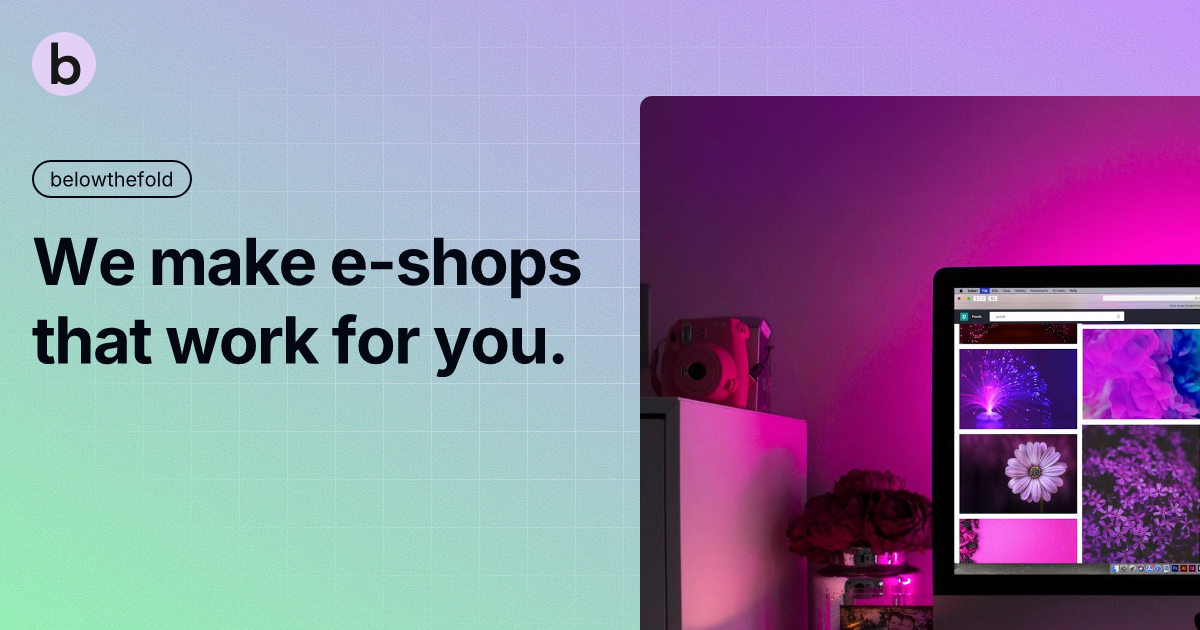
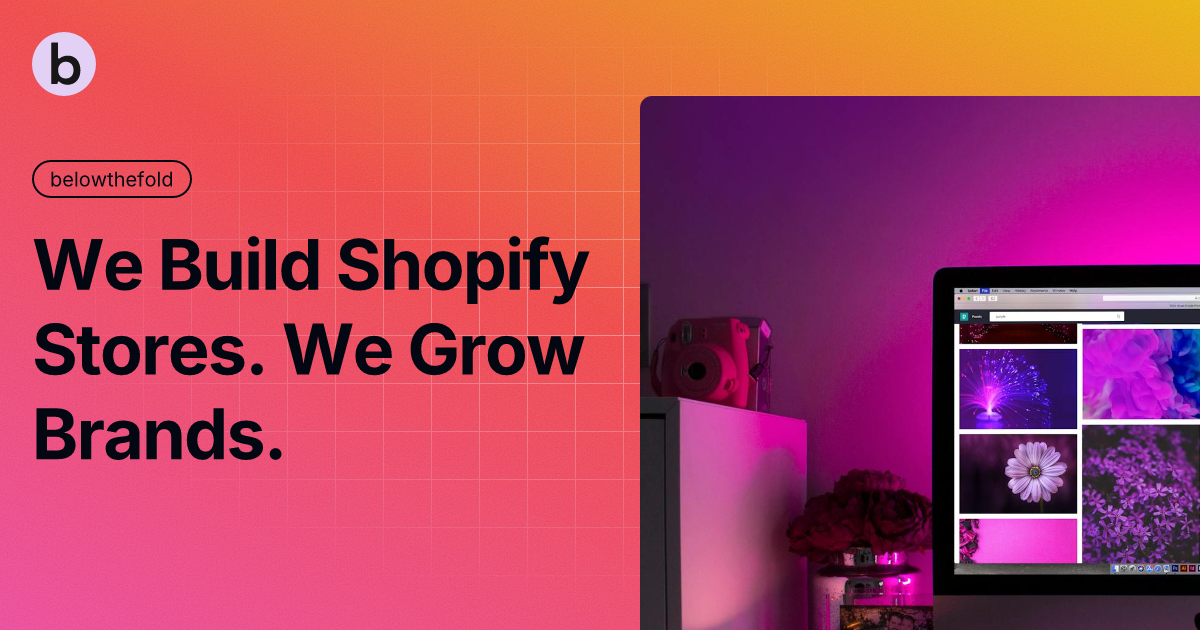
Update MarketingHero component text for improved clarity and branding; replace headings and descriptions to better reflect agency's focus on Shopify store development and growth.

diff --git a/src/components/@shared/hero.tsx b/src/components/@shared/hero.tsx
@@ -15,10 +15,10 @@ export function MarketingHero() {
                 <div className="flex flex-col lg:flex-row lg:justify-between mt-12 md:mt-8 lg:mt-12">
                     {/* Left Side - Main Heading */}
                     <div className="lg:max-w-[75%]">
-                        <h1 className="text-[2.5rem] sm:text-[4rem] md:text-[5rem] lg:text-[6rem] leading-[0.85] tracking-[-0.03em] font-bold text-neutral-900 flex flex-col">
-                            <span className="mb-3 md:mb-4">We make e-shops</span>
+                        <h1 className="text-[2.5rem] sm:text-[4rem] md:text-[5rem] lg:text-[5rem] leading-[0.85] tracking-[-0.03em] font-bold text-neutral-900 flex flex-col">
+                            <span className="mb-3 md:mb-4">We Build Shopify Stores.</span>
                             <div className="flex items-center gap-4 lg:gap-6 group">
-                                <span>that work for you</span>
+                                <span>We Grow Brands.</span>
                                 <div className="flex items-center justify-center w-[45px] h-[45px] lg:w-[60px] lg:h-[60px] rounded-full bg-brand-purple scale-100 lg:scale-[1.2]">
                                     <span className="text-neutral-900 flex items-center scale-[1.2] lg:scale-[1.5]">
                                         <ArrowIcon />
@@ -56,7 +56,7 @@ export function MarketingHero() {
                     {/* Right Side - Description */}
                     <div className="mt-8 sm:mt-12 lg:mt-0 lg:max-w-[20%] flex flex-col justify-between py-4 lg:py-8">
                         <p className="text-neutral-600 text-[14px] lg:text-[15px] leading-relaxed tracking-wide font-medium uppercase">
-                            <span className="text-neutral-400">BELOW THE FOLD</span> is a <span className="text-[#96bf48]">Shopify Partner</span> agency specializing in e-commerce design and development. <span className="bg-neutral-800 text-white px-2 py-1">We help businesses grow by creating high-performing stores.</span>
+                            <span className="text-neutral-400">BELOW THE FOLD</span> is a <span className="text-[#96bf48]">Shopify Partner</span> agency. We design, build, and grow Shopify stores. We deliver results in 6 weeks and stay by your side as you scale.
                         </p>
                         <Link
                             href="/works"
